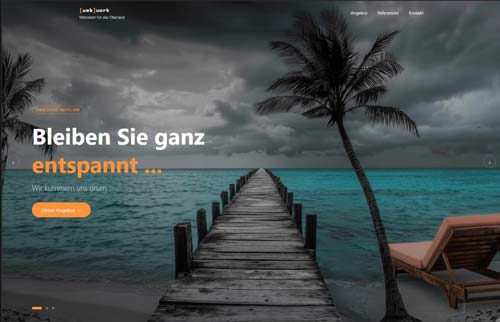
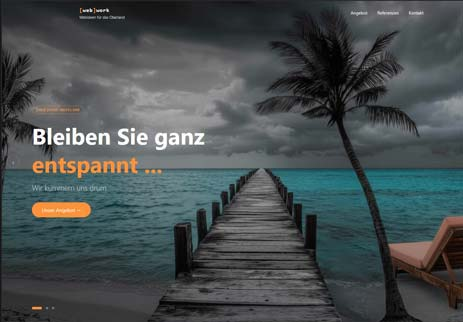
Referenzen erweitert webwork

diff --git a/resources/js/data/projects.js b/resources/js/data/projects.js
@@ -18,7 +18,15 @@ export const projects = [
       'Responsive Design für alle Geräte',
     ],
     thumb: '/images/referenzen/thumbnails/thumb-webwork-relaunch.jpg',
-    images: [],
+    images: [
+          '/images/referenzen/webwork-relaunch/webwork-slide1.png',
+          '/images/referenzen/webwork-relaunch/webwork-slide2.png',
+          '/images/referenzen/webwork-relaunch/webwork-slide3.png',
+          '/images/referenzen/webwork-relaunch/webwork-1.png',
+          '/images/referenzen/webwork-relaunch/webwork-2.png',
+          '/images/referenzen/webwork-relaunch/webwork-3.png',
+          '/images/referenzen/webwork-relaunch/webwork-4.png'
+    ],
   },
    {
     id: 5,

diff --git a/resources/css/app.css b/resources/css/app.css
@@ -1,11 +1,11 @@
+@import url('https://fonts.googleapis.com/css2?family=Space+Grotesk:wght@300;400;500;600;700&family=JetBrains+Mono:wght@400;700&display=swap');
+
 @import 'tailwindcss';
 
 @source '../../vendor/laravel/framework/src/Illuminate/Pagination/resources/views/*.blade.php';
 @source '../../storage/framework/views/*.php';
 @source '../**/*.blade.php';
 @source '../**/*.js';
-
-@import url('https://fonts.googleapis.com/css2?family=Space+Grotesk:wght@300;400;500;600;700&family=JetBrains+Mono:wght@400;700&display=swap');
 
 @theme {
     --font-sans: 'Space Grotesk', ui-sans-serif, system-ui, sans-serif;

diff --git a/resources/js/components/PortfolioSection.vue b/resources/js/components/PortfolioSection.vue
@@ -31,14 +31,14 @@
       <div class="grid grid-cols-2 md:grid-cols-3 lg:grid-cols-4 gap-4">
         <RouterLink
           v-for="project in filteredProjects"
-          :key="project.id"
+          :key="project.slug"
           :to="`/portfolio/${project.slug}`"
           class="group relative overflow-hidden rounded-xl border border-white/5 hover:border-[#fb923c]/30 transition-all duration-300"
         >
           <img
             :src="project.thumb"
             :alt="project.title"
-            class="w-full aspect-[4/3] object-cover group-hover:scale-105 transition duration-500 opacity-80 group-hover:opacity-100"
+            class="w-full aspect-[4/3] object-cover object-top group-hover:scale-105 transition duration-500 opacity-80 group-hover:opacity-100"
           />
           <div class="absolute inset-0 bg-gradient-to-t from-black/80 via-black/20 to-transparent opacity-0 group-hover:opacity-100 transition flex items-end p-4">
             <div>